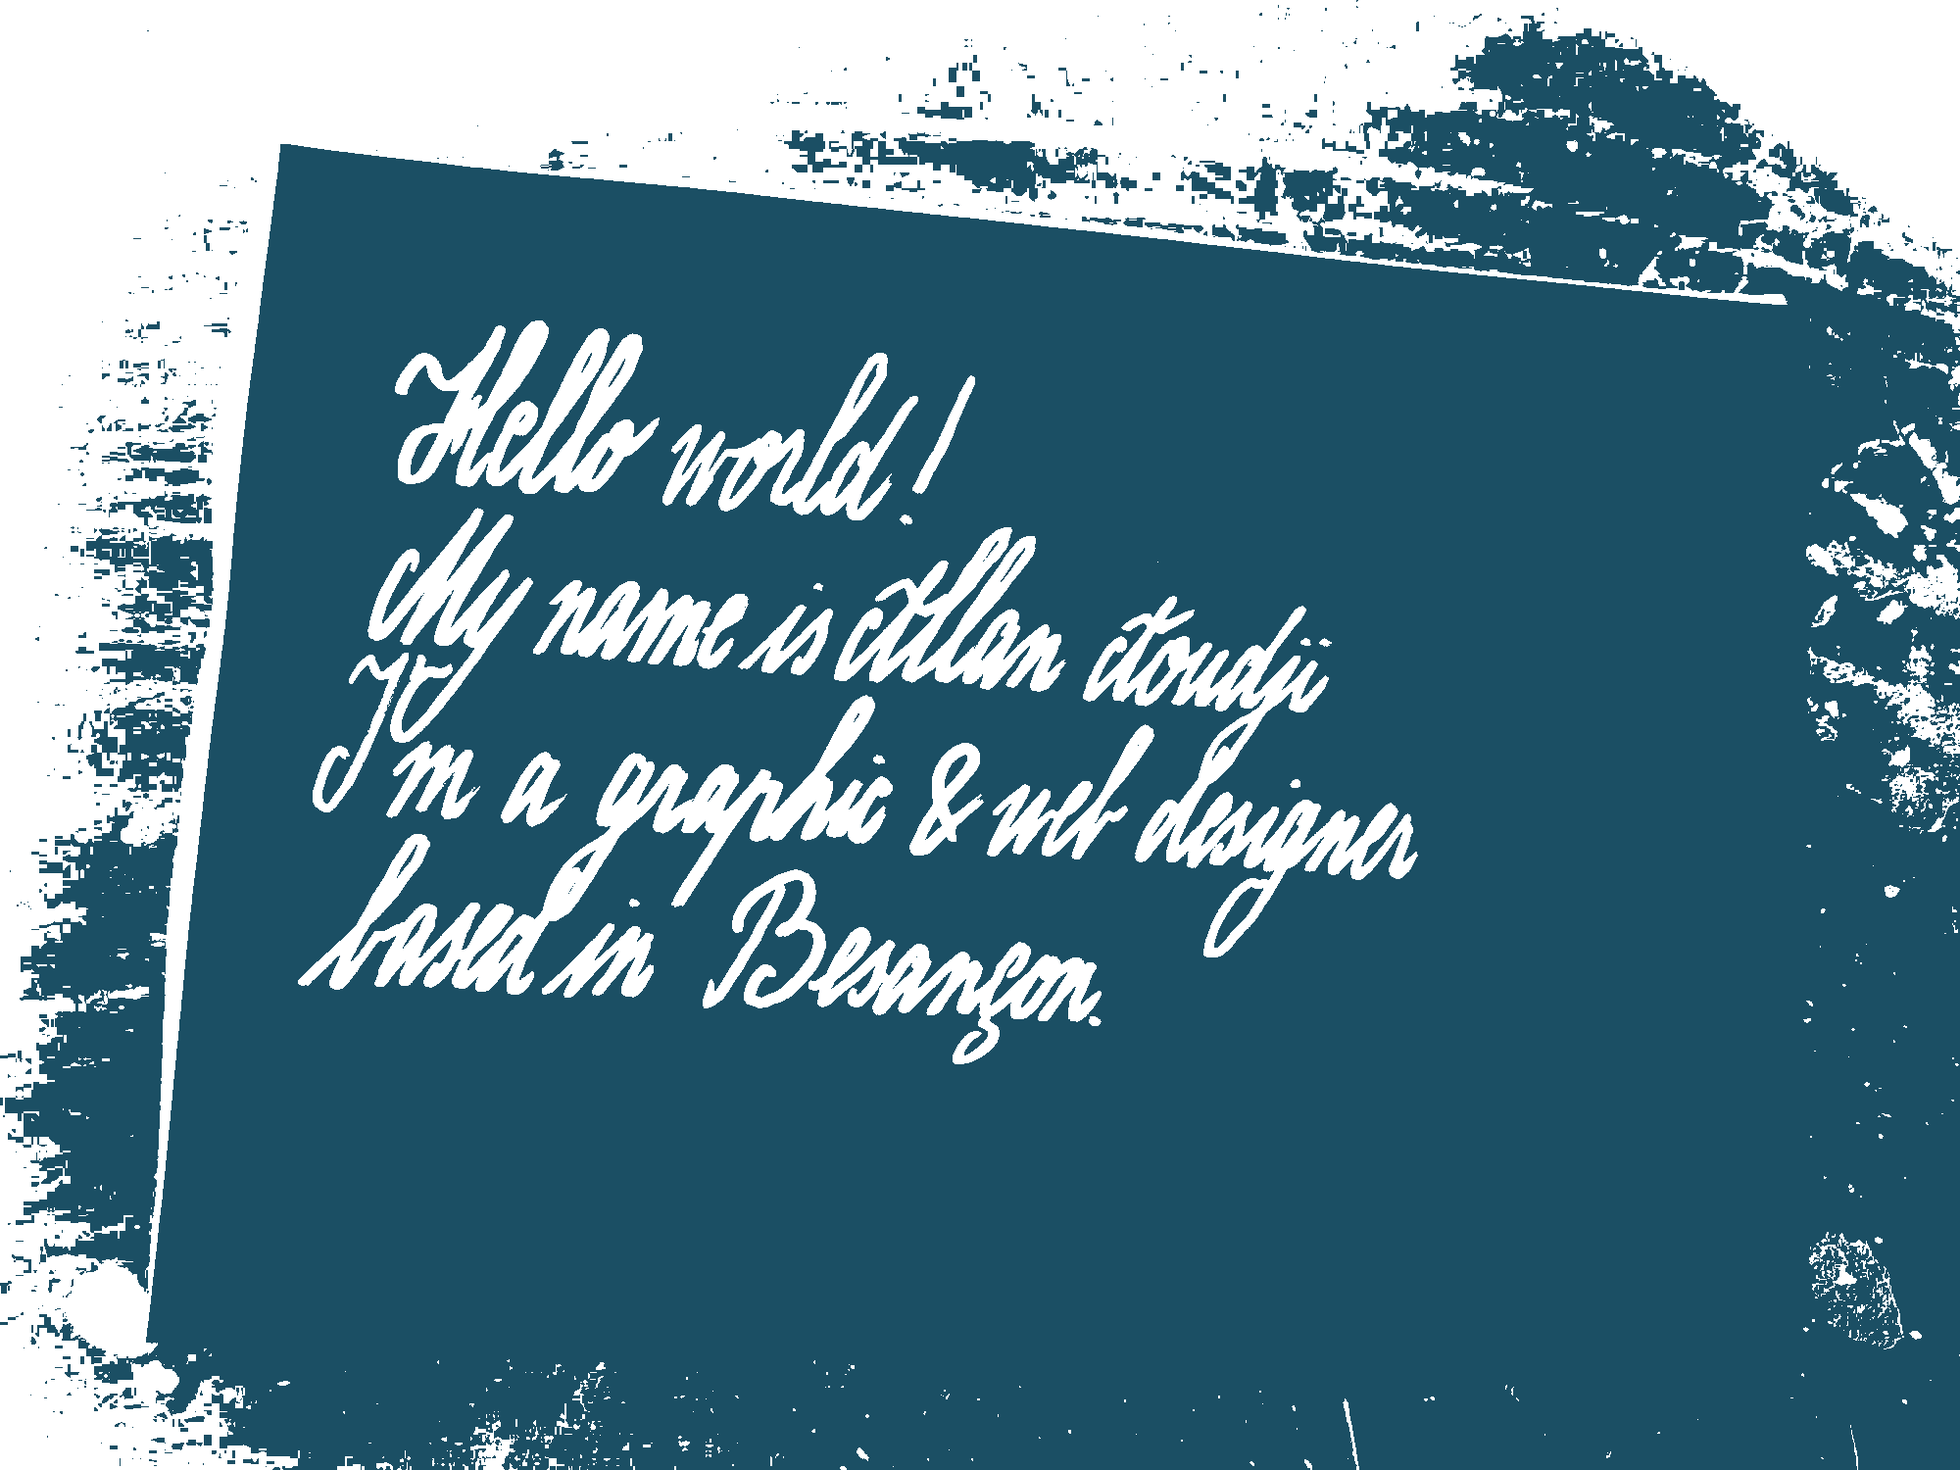
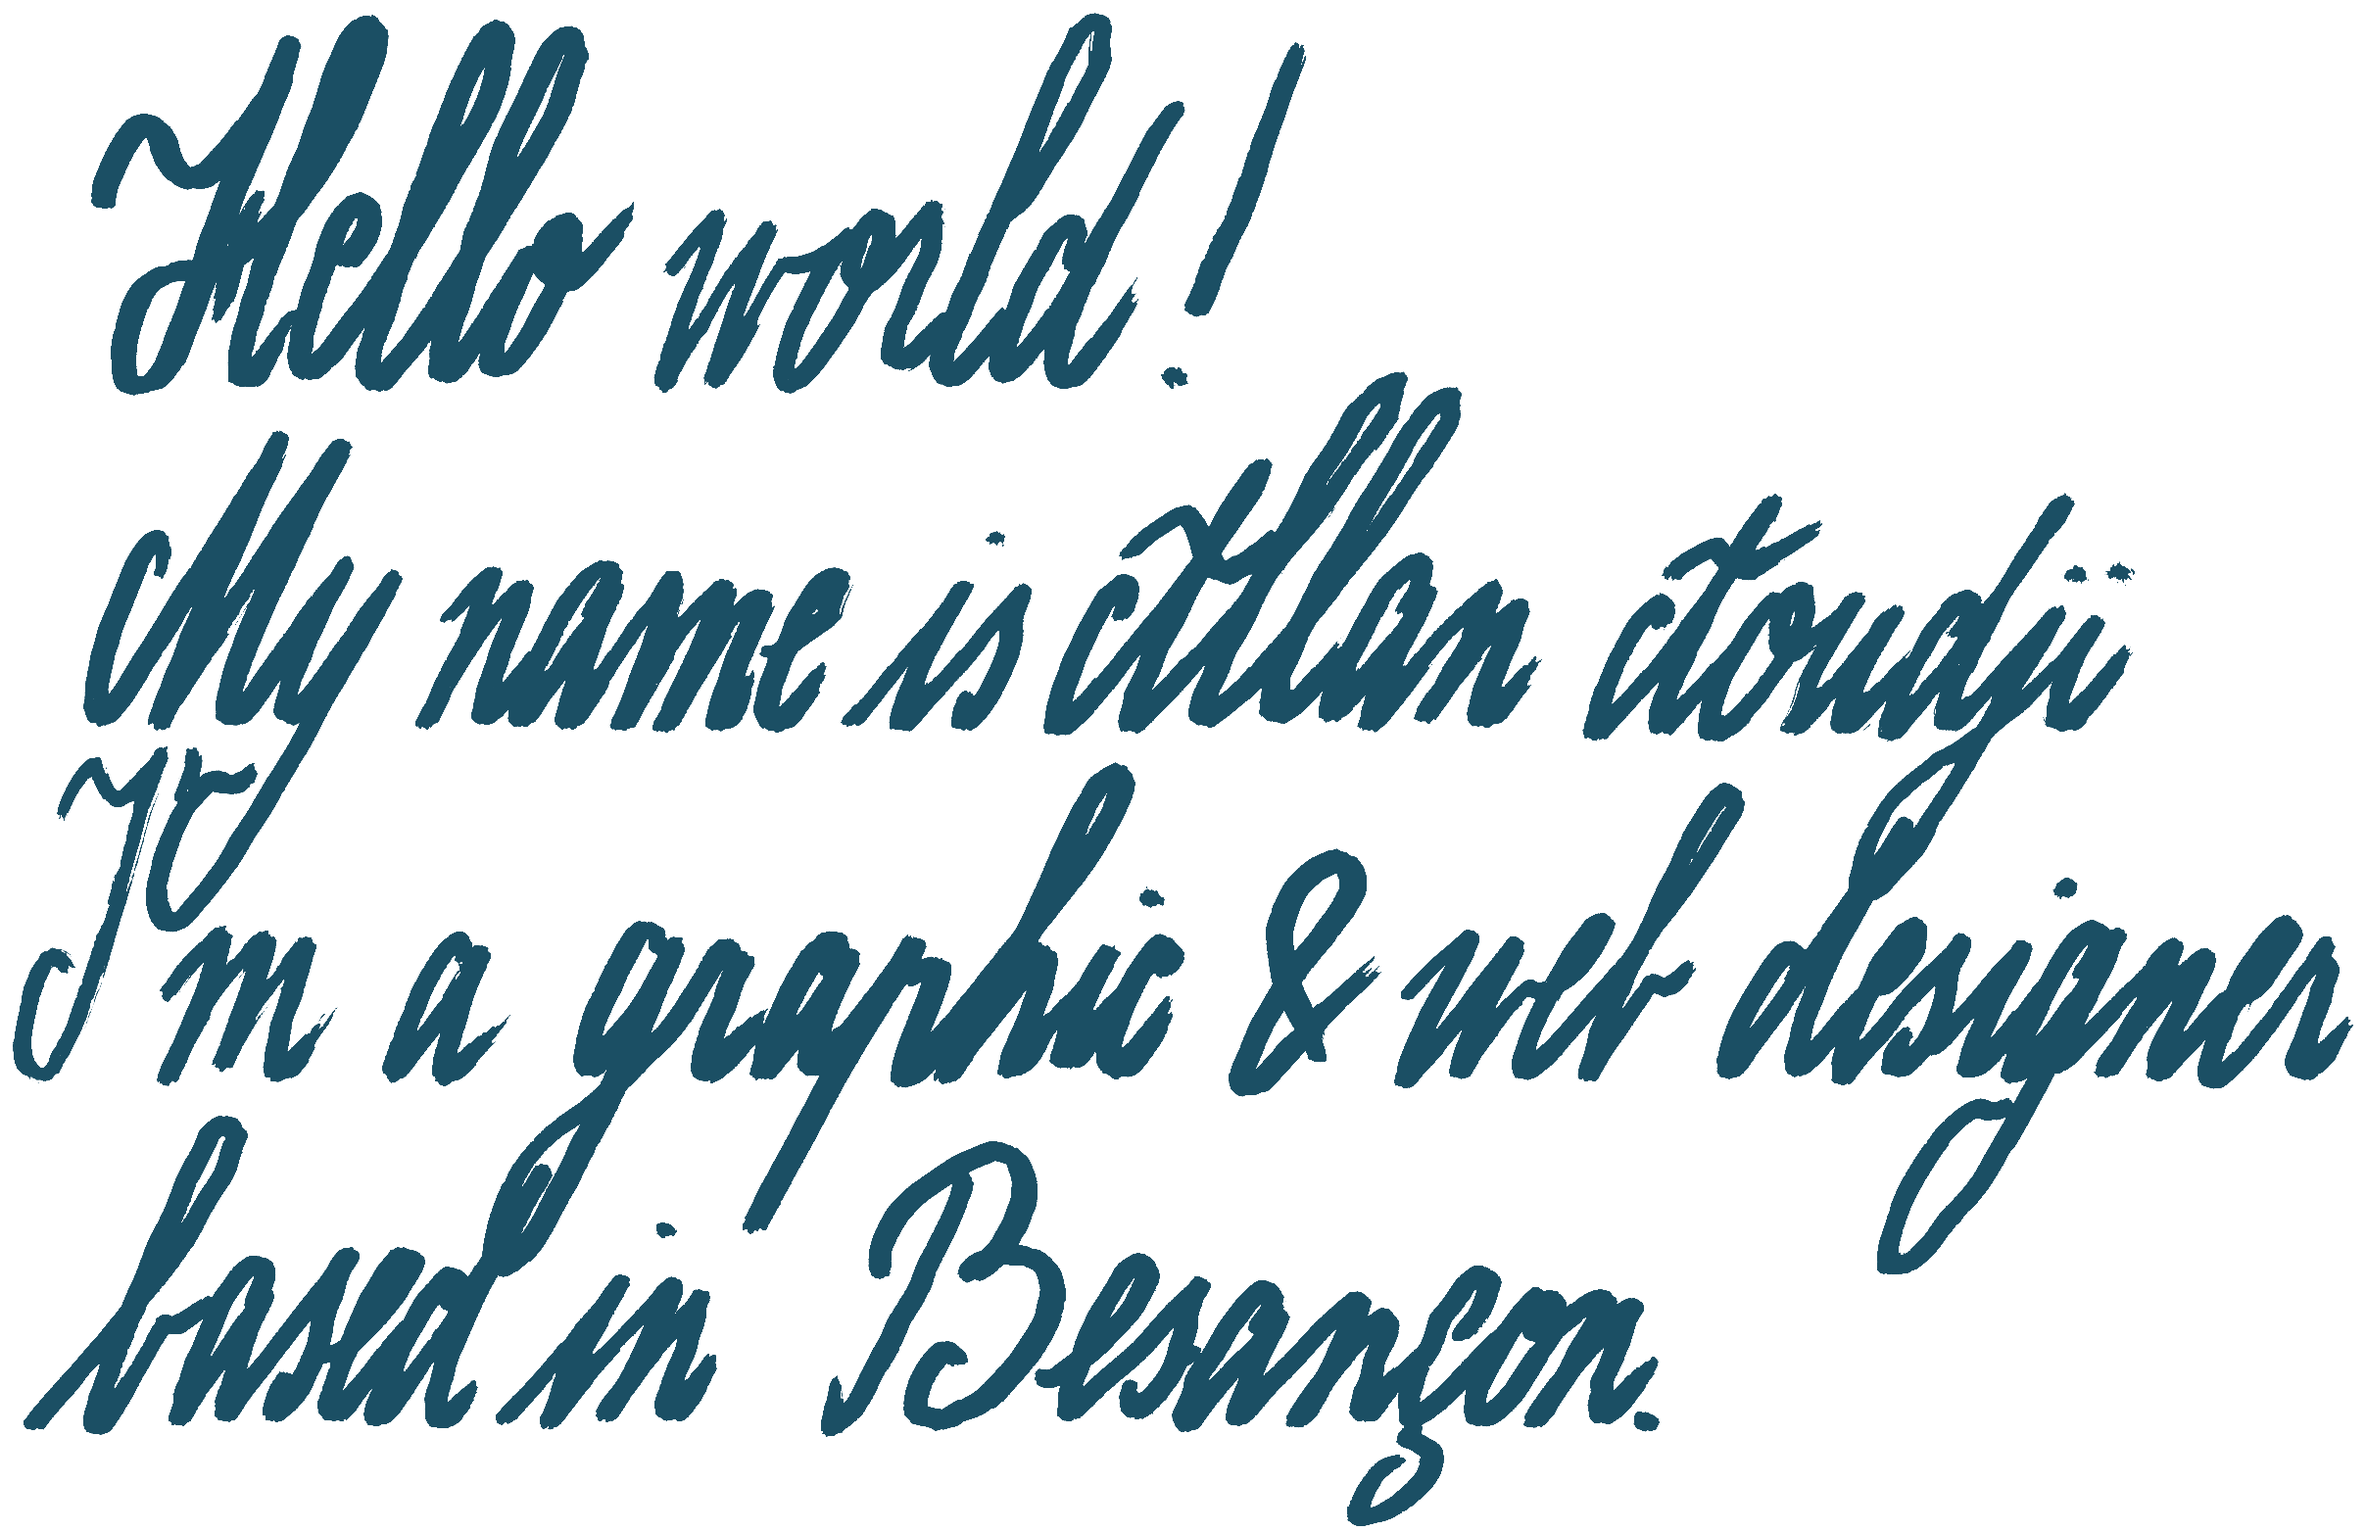
finish responsive home page

diff --git a/src/hooks/useWindowSize.ts b/src/hooks/useWindowSize.ts
@@ -1,0 +1,40 @@
+import { useEffect, useState } from 'react';
+
+type Size = {
+  width?: number;
+  height?: number;
+};
+
+function useWindowSize() {
+  // Initialize state with undefined width/height so server and client renders match
+  // Learn more here: https://joshwcomeau.com/react/the-perils-of-rehydration/
+  const [windowSize, setWindowSize] = useState<Size>({
+    width: undefined,
+    height: undefined,
+  });
+
+  useEffect(() => {
+    // only execute all the code below in client side
+    // Handler to call on window resize
+    function handleResize() {
+      // Set window width/height to state
+      setWindowSize({
+        width: window.innerWidth,
+        height: window.innerHeight,
+      });
+    }
+
+    // Add event listener
+    window.addEventListener('resize', handleResize);
+
+    // Call handler right away so state gets updated with initial window size
+    handleResize();
+
+    // Remove event listener on cleanup
+    return () => window.removeEventListener('resize', handleResize);
+  }, []); // Empty array ensures that effect is only run on mount
+
+  return windowSize;
+}
+
+export default useWindowSize;

diff --git a/src/components/Posts.tsx b/src/components/Posts.tsx
@@ -8,14 +8,12 @@ import PostCard from './PostCard';
 
 type Props = {
   categorySlug?: string | null;
-  className?: string;
   posts: Post[];
   showHeaderText?: boolean;
 };
 
 function Posts({
   categorySlug = null,
-  className = '',
   posts: initialPost,
   showHeaderText = true,
 }: Props) {
@@ -90,12 +88,12 @@ function Posts({
   );
 
   return (
-    <section className={`grid grid-cols-1 gap-0 ${className}`}>
+    <>
       {showHeaderText && (
         <Image
           alt="home-text"
-          className="mb-48"
-          src="/hello-world-dark.png"
+          className="my-24 sm:col-span-2 sm:my-0 sm:pr-28"
+          src="/hello-world-light.png"
           width="2415"
           height="1564"
         />
@@ -103,7 +101,7 @@ function Posts({
       {posts.map((post) => (
         <PostCard post={post} key={post._id} />
       ))}
-    </section>
+    </>
   );
 }
 

diff --git a/src/components/DrawerOpenLink.tsx b/src/components/DrawerOpenLink.tsx
@@ -6,10 +6,11 @@ import { useSearchParams } from 'next/navigation';
 import { useEffect } from 'react';
 
 type Props = {
+  className?: string;
   color?: 'dark' | 'light';
 };
 
-function DrawerOpenLink({ color = 'light' }: Props) {
+function DrawerOpenLink({ className = '', color = 'light' }: Props) {
   const searchParams = useSearchParams();
 
   useEffect(() => {
@@ -25,11 +26,11 @@ function DrawerOpenLink({ color = 'light' }: Props) {
       href={{ query: { drawer: true } }}
       replace={true}
       scroll={false}
-      className="absolute top-0 left-0 mx-6 my-5"
+      className={`absolute top-0 left-0 mx-6 my-5 ${className}`}
     >
       <Image
         alt="hamburger menu"
-        className="h-9 w-auto"
+        className="h-8 w-auto"
         height="1943"
         src={`/hamburger-${color}.png`}
         width="1962"

diff --git a/src/components/HomeHeader.tsx b/src/components/HomeHeader.tsx
@@ -1,0 +1,24 @@
+import Image from 'next/image';
+import { BsArrowDown } from 'react-icons/bs';
+
+function HomeHeader() {
+  return (
+    <div className="relative bg-darker h-screen overflow-hidden mb-48 flex justify-center items-end">
+      <div className="absolute w-screen h-screen flex items-center justify-center pointer-events-none">
+        <Image
+          alt="animated log"
+          className="w-full h-auto px-2 max-w-2xl"
+          height="1080"
+          src="/Composition 1.gif"
+          width="1920"
+        />
+      </div>
+      <div className={`pb-6 flex flex-col items-center gap-2`}>
+        <p className="text-light uppercase font-light">scroll</p>
+        <BsArrowDown size={40} className="fill-light" />
+      </div>
+    </div>
+  );
+}
+
+export default HomeHeader;

diff --git a/src/app/(front)/page.tsx b/src/app/(front)/page.tsx
@@ -1,5 +1,6 @@
 import { getPosts } from '@/sanity/sanity.queries';
-import DrawerContainer from '@src/components/DrawerContainer';
+import HomeHeader from '@src/components/HomeHeader';
+import PageContainer from '@src/components/PageContainer';
 import Posts from '@src/components/Posts';
 
 type Props = {
@@ -12,8 +13,13 @@ export default async function Home({ searchParams: { drawer } }: Props) {
   const posts = await getPosts('', '');
   return (
     <>
-      <DrawerContainer open={drawer === 'true' ? true : false} />
-      <Posts posts={posts} />
+      <PageContainer
+        className="grid grid-cols-1 gap-3 items-end sm:grid-cols-3"
+        drawer={drawer}
+        header={<HomeHeader />}
+      >
+        <Posts posts={posts} />
+      </PageContainer>
     </>
   );
 }

diff --git a/src/components/PostCard.tsx b/src/components/PostCard.tsx
@@ -7,13 +7,13 @@ type Props = {
 
 function PostCard({ post }: Props) {
   return (
-    <div className="overflow-hidden col-span-1 px-6" key={post._id}>
-      <div className="relative pb-5/12 bg-dark">
+    <div className="col-span-1 overflow-hidden rounded-xl" key={post._id}>
+      <div className="pb-7/12 relative sm:pb-11/12">
         {post.mainImage && post.mainImage.url && (
           <Link href={`/work/${post.slug}`}>
             <Image
               alt={post.mainImage.alt || post.title}
-              className="absolute top-0 h-full w-full object-cover"
+              className="absolute top-0 h-full w-full object-cover hover:scale-150 transition duration-1000"
               height={300}
               src={post.mainImage.url}
               width={200}

diff --git a/src/components/Header.tsx b/src/components/Header.tsx
@@ -1,11 +1,15 @@
 import DrawerOpenLink from './DrawerOpenLink';
 import Logo from './Logo';
+import Pages from './Pages';
 
 function Header() {
   return (
-    <header className="flex items-center justify-center py-5 sticky top-0 z-30 ">
-      <Logo border className="h-9" />
-      <DrawerOpenLink />
+    <header className="fixed top-0 w-full z-30">
+      <div className="duration-300 flex items-center justify-center mx-auto px-12 pt-5 transition-all sm:justify-between sm:pt-8 md:max-w-5xl">
+        <Logo className="h-8" />
+        <DrawerOpenLink className="sm:hidden" />
+        <Pages className="hidden space-x-6 text-xl text-light sm:block" />
+      </div>
     </header>
   );
 }

diff --git a/src/components/PageContainer.tsx b/src/components/PageContainer.tsx
@@ -17,10 +17,16 @@ function PageContainer({
 }: Props) {
   return (
     <>
-      {header}
       <DrawerContainer open={drawer === 'true' ? true : false} />
-      <div className={`mx-auto md:max-w-5xl ${className}`}>{children}</div>
-      {footer}
+      <div>
+        {header}
+        <section
+          className={`duration-300 px-6 mx-auto transition-all sm:px-12 sm:pt-4 md:max-w-5xl ${className}`}
+        >
+          {children}
+        </section>
+        {footer}
+      </div>
     </>
   );
 }

diff --git a/src/app/(front)/layout.tsx b/src/app/(front)/layout.tsx
@@ -16,7 +16,7 @@ const rubik = Rubik({ subsets: ['latin'] });
 const RootLayout = ({ children }: Props) => {
   return (
     <body
-      className={`bg-dark flex flex-col min-h-screen relative ${rubik.className}`}
+      className={`flex flex-col min-h-screen overscroll-none relative bg-gradient-to-b from-dark from-50% to-darker ${rubik.className}`}
     >
       <FullScreenImage />
       <Header />

diff --git a/src/components/Footer.tsx b/src/components/Footer.tsx
@@ -4,7 +4,7 @@ import SocialMedias from './SocialMedias';
 
 function Footer() {
   return (
-    <footer className="text-light px-5 pb-5 pt-48 flex flex-col gap-20">
+    <footer className="text-light px-5 pb-5 pt-72 flex flex-col gap-20">
       <div className="flex flex-col gap-8">
         <Pages className="text-2xl gap-8 justify-center" />
         <SocialMedias className="justify-center gap-8" />

diff --git a/src/app/(front)/page/[slug]/page.tsx b/src/app/(front)/page/[slug]/page.tsx
@@ -24,7 +24,7 @@ export default async function Page({
   return (
     <>
       <DrawerContainer open={drawer === 'true' ? true : false} />
-      <div className="px-6 md:max-w-5xl mx-auto">
+      <div className="px-6 sm:max-w-5xl mx-auto">
         <Title className="text-5xl pt-28 pb-14">{page.name}</Title>
         {page.body && <RichPortableText value={page.body} />}
       </div>

diff --git a/src/components/PageCard.tsx b/src/components/PageCard.tsx
@@ -6,7 +6,12 @@ type Props = {
 
 function PageCard({ page }: Props) {
   return (
-    <Link href={`/page/${page.slug}`}>{page.name.toLocaleUpperCase()}</Link>
+    <Link
+      className="transition hover:opacity-60 duration-1000"
+      href={`/page/${page.slug}`}
+    >
+      {page.name.toLocaleUpperCase()}
+    </Link>
   );
 }
 
